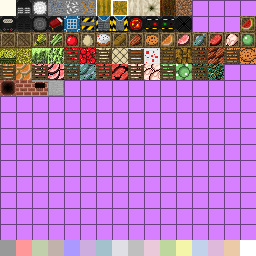
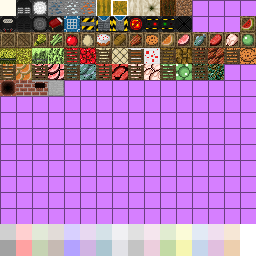
Work on box block.

Changed region(s): [[0.0, 0.875, 1.0, 0.9375], [0.1875, 0.0, 0.375, 0.0625]]

diff --git a/Common/si/meansoft/logisticraft/common/blocks/BlockBox.java b/Common/si/meansoft/logisticraft/common/blocks/BlockBox.java
@@ -1,0 +1,193 @@
+/*******************************************************************************
+ * Copyright (c) 2012 Mrbrutal. All rights reserved.
+ * @name Logisticraft
+ * @author Mrbrutal
+ * @licence Lesser GNU Public License v3 http://www.gnu.org/licenses/gpl.html
+ ******************************************************************************/
+
+package si.meansoft.logisticraft.common.blocks;
+
+import java.util.List;
+import java.util.Random;
+
+import si.meansoft.logisticraft.common.items.LCItems;
+import si.meansoft.logisticraft.common.library.Info;
+import net.minecraft.src.Block;
+import net.minecraft.src.CreativeTabs;
+import net.minecraft.src.EntityPlayer;
+import net.minecraft.src.ItemStack;
+import net.minecraft.src.Material;
+import net.minecraft.src.World;
+
+public class BlockBox extends Block {
+	
+	public BlockBox(int i, int j) {
+		super(i, j, Material.grass);
+		blockIndexInTexture = j;
+	    setHardness(2.0F);
+	    setStepSound(soundGrassFootstep);
+	    setResistance(1.0F);
+	    setTickRandomly(true);
+	    setCreativeTab(CreativeTabs.tabBlock);
+	}
+	
+	@Override
+    public String getTextureFile() {
+    	return Info.TEX_BLOCK;
+    }
+	
+	public int idDropped(int par1, Random random, int par3) {
+		return 0;
+	}
+
+	public int quantityDropped(int meta, Random random, int fortune) {
+		return 1;
+	}
+	
+	protected int damageDropped(int i) {
+        return i;
+    }
+
+	public int getBlockTextureFromSideAndMetadata(int side, int data) {
+		int base = blockIndexInTexture;
+		switch(data) {
+		case 0:
+			if(side == 0 || side == 1) { //top and bottom
+				return base + 1;
+			}
+			else {						 //sides
+				return base;
+			}
+		case 1:
+			if(side == 0 || side == 1) { //top and bottom
+				return base + 3;
+			}
+			else {						 //sides
+				return base + 2;
+			}
+		case 2:
+			if(side == 0 || side == 1) { //top and bottom
+				return base + 5;
+			}
+			else {						 //sides
+				return base + 4;
+			}
+		case 3:
+			if(side == 0 || side == 1) { //top and bottom
+				return base + 7;
+			}
+			else {						 //sides
+				return base + 6;
+			}
+		case 4:
+			if(side == 0 || side == 1) { //top and bottom
+				return base + 9;
+			}
+			else {						 //sides
+				return base + 8;
+			}
+		case 5:
+			if(side == 0 || side == 1) { //top and bottom
+				return base + 11;
+			}
+			else {						 //sides
+				return base + 10;
+			}
+		case 6:
+			if(side == 0 || side == 1) { //top and bottom
+				return base + 13;
+			}
+			else {						 //sides
+				return base + 12;
+			}
+		case 7:
+			if(side == 0 || side == 1) { //top and bottom
+				return base + 15;
+			}
+			else {						 //sides
+				return base + 14;
+			}
+		case 8:
+			if(side == 0 || side == 1) { //top and bottom
+				return base + 17;
+			}
+			else {						 //sides
+				return base + 16;
+			}
+		case 9:
+			if(side == 0 || side == 1) { //top and bottom
+				return base + 19;
+			}
+			else {						 //sides
+				return base + 18;
+			}
+		case 10:
+			if(side == 0 || side == 1) { //top and bottom
+				return base + 21;
+			}
+			else {						 //sides
+				return base + 20;
+			}
+		case 11:
+			if(side == 0 || side == 1) { //top and bottom
+				return base + 23;
+			}
+			else {						 //sides
+				return base + 22;
+			}
+		case 12:
+			if(side == 0 || side == 1) { //top and bottom
+				return base + 25;
+			}
+			else {						 //sides
+				return base + 24;
+			}
+		case 13:
+			if(side == 0 || side == 1) { //top and bottom
+				return base + 27;
+			}
+			else {						 //sides
+				return base + 26;
+			}
+		case 14:
+			if(side == 0 || side == 1) { //top and bottom
+				return base + 29;
+			}
+			else {						 //sides
+				return base + 28;
+			}
+		case 15:
+			if(side == 0 || side == 1) { //top and bottom
+				return base + 31;
+			}
+			else {						 //sides
+				return base + 30;
+			}
+		default: 
+			if(side == 0 || side == 1) { //top and bottom
+				return base;
+			}
+			else {						 //sides
+				return base + 1;
+			}
+		}
+	}
+	
+	@Override
+    public void getSubBlocks(int par1, CreativeTabs tabs, List list) {
+        for (int var4 = 0; var4 < 15; ++var4) {
+            list.add(new ItemStack(this, 1, var4));
+        }
+    }
+	
+	public void harvestBlock(World par1World, EntityPlayer par2EntityPlayer, int par3, int par4, int par5, int par6) {
+		if(par2EntityPlayer.getCurrentEquippedItem() != null && par2EntityPlayer.getCurrentEquippedItem().getItem() == LCItems.knife){
+			this.dropBlockAsItem_do(par1World, par3, par4, par5, this.createStackedBlock(par6));
+			super.harvestBlock(par1World, par2EntityPlayer, par3, par4, par5, par6);
+		}
+    }
+	
+	protected boolean canSilkHarvest() {
+        return true;
+    }
+}

diff --git a/Common/si/meansoft/logisticraft/common/items/ItemBlockBox.java b/Common/si/meansoft/logisticraft/common/items/ItemBlockBox.java
@@ -1,0 +1,30 @@
+/*******************************************************************************
+ * Copyright (c) 2012 Mrbrutal. All rights reserved.
+ * @name Logisticraft
+ * @author Mrbrutal
+ * @licence Lesser GNU Public License v3 http://www.gnu.org/licenses/gpl.html
+ ******************************************************************************/
+
+package si.meansoft.logisticraft.common.items;
+
+import net.minecraft.src.*;
+
+public class ItemBlockBox extends ItemBlock {
+	
+	public ItemBlockBox(int i) {
+		super(i);
+		setMaxDamage(0);
+		setHasSubtypes(true);
+		setMaxStackSize(64);
+	}
+	public String[] blockNames = { "Block wheat", "Block sugarcane", "Apple basket", "Egg basket", "Cake basket", "Bread basket", "Zombie basket", "Cookie basket", "Watermelon basket", "Box of pork", "Box of fish", "Box of beef", "Box of chicken", "SlimeBall basket", "Compost basket" };
+
+	public String getItemNameIS(ItemStack itemstack) {
+		return(new StringBuilder()).append(super.getItemName()).append(".").append(blockNames[itemstack.getItemDamage()]).toString();
+	}
+	
+	public int getMetadata(int i) {
+		return i;
+	}
+	
+}
